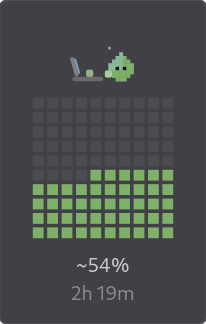
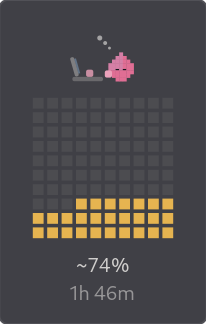
docs(readme): retake screenshots with the updated themes

diff --git a/README.md b/README.md
@@ -5,7 +5,7 @@
 **A small desktop widget that shows your Claude Code usage, read from your own machine.**
 
 <p align="center">
-  <img src="base.png" alt="The klepsydra card: the 5-hour window at 54% with 2h 20m left, the week at 11%, today's tokens and cost, and the burn rate. The droplet mascot types at its laptop in the header." width="420">
+  <img src="base.png" alt="The klepsydra card: the 5-hour window at 74% with 1h 46m left, the week at 14%, today's tokens and cost, and the burn rate. The droplet mascot types at its laptop in the header." width="420">
 </p>
 
 Klepsydra sits on your GNOME desktop and tells you:
@@ -69,7 +69,7 @@ Where the percentages come from depends on the mode:
   cost instead of a percentage.
 
 <p align="center">
-  <img src="details.png" alt="The expanded card, adding a context bar for the live session, the month total, cache hits, thinking share, top projects and branches, and a 7-day heatmap of usage by hour." width="420">
+  <img src="details.png" alt="The expanded card, adding a context bar for the live session, the limit eta, the month total, cache hits, thinking share, top projects and branches, and a 7-day heatmap of usage by hour." width="420">
 </p>
 
 Clicking the card opens the detail panel:
@@ -94,7 +94,7 @@ the config to turn them off.
 ## Mini mode
 
 <p align="center">
-  <img src="mini.png" alt="Mini mode: the droplet above a 10 by 10 grid, 54 cells filled, with 54% and 2h 19m below." width="140">
+  <img src="mini.png" alt="Mini mode: the droplet above a 10 by 10 grid with 26 cells left, and 74% and 1h 46m below." width="140">
 </p>
 
 **Ctrl**+click shrinks the card to just the 5-hour window, drawn as a 10×10
